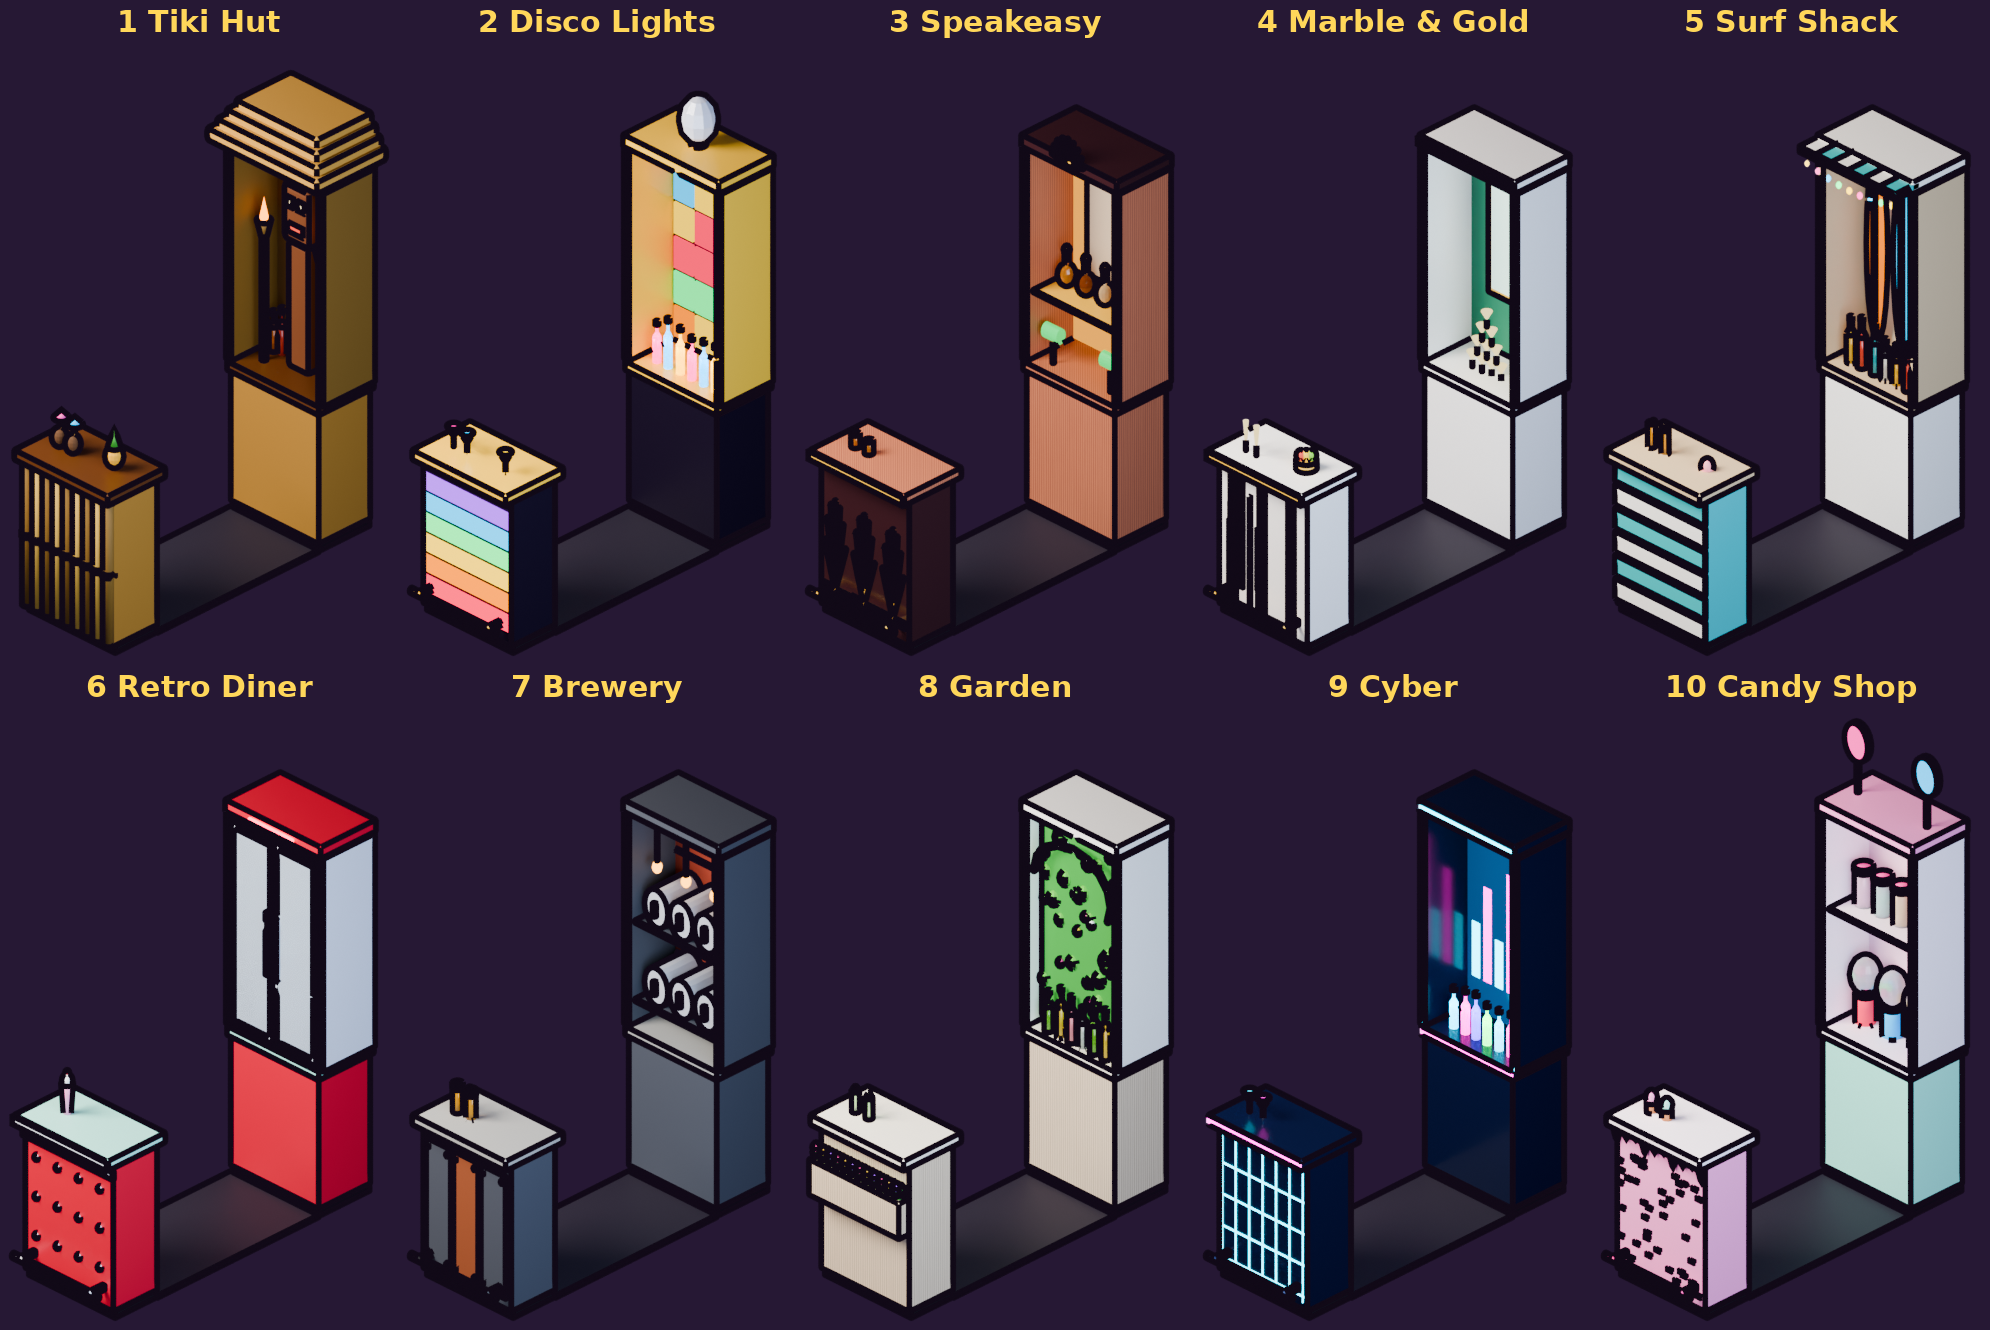
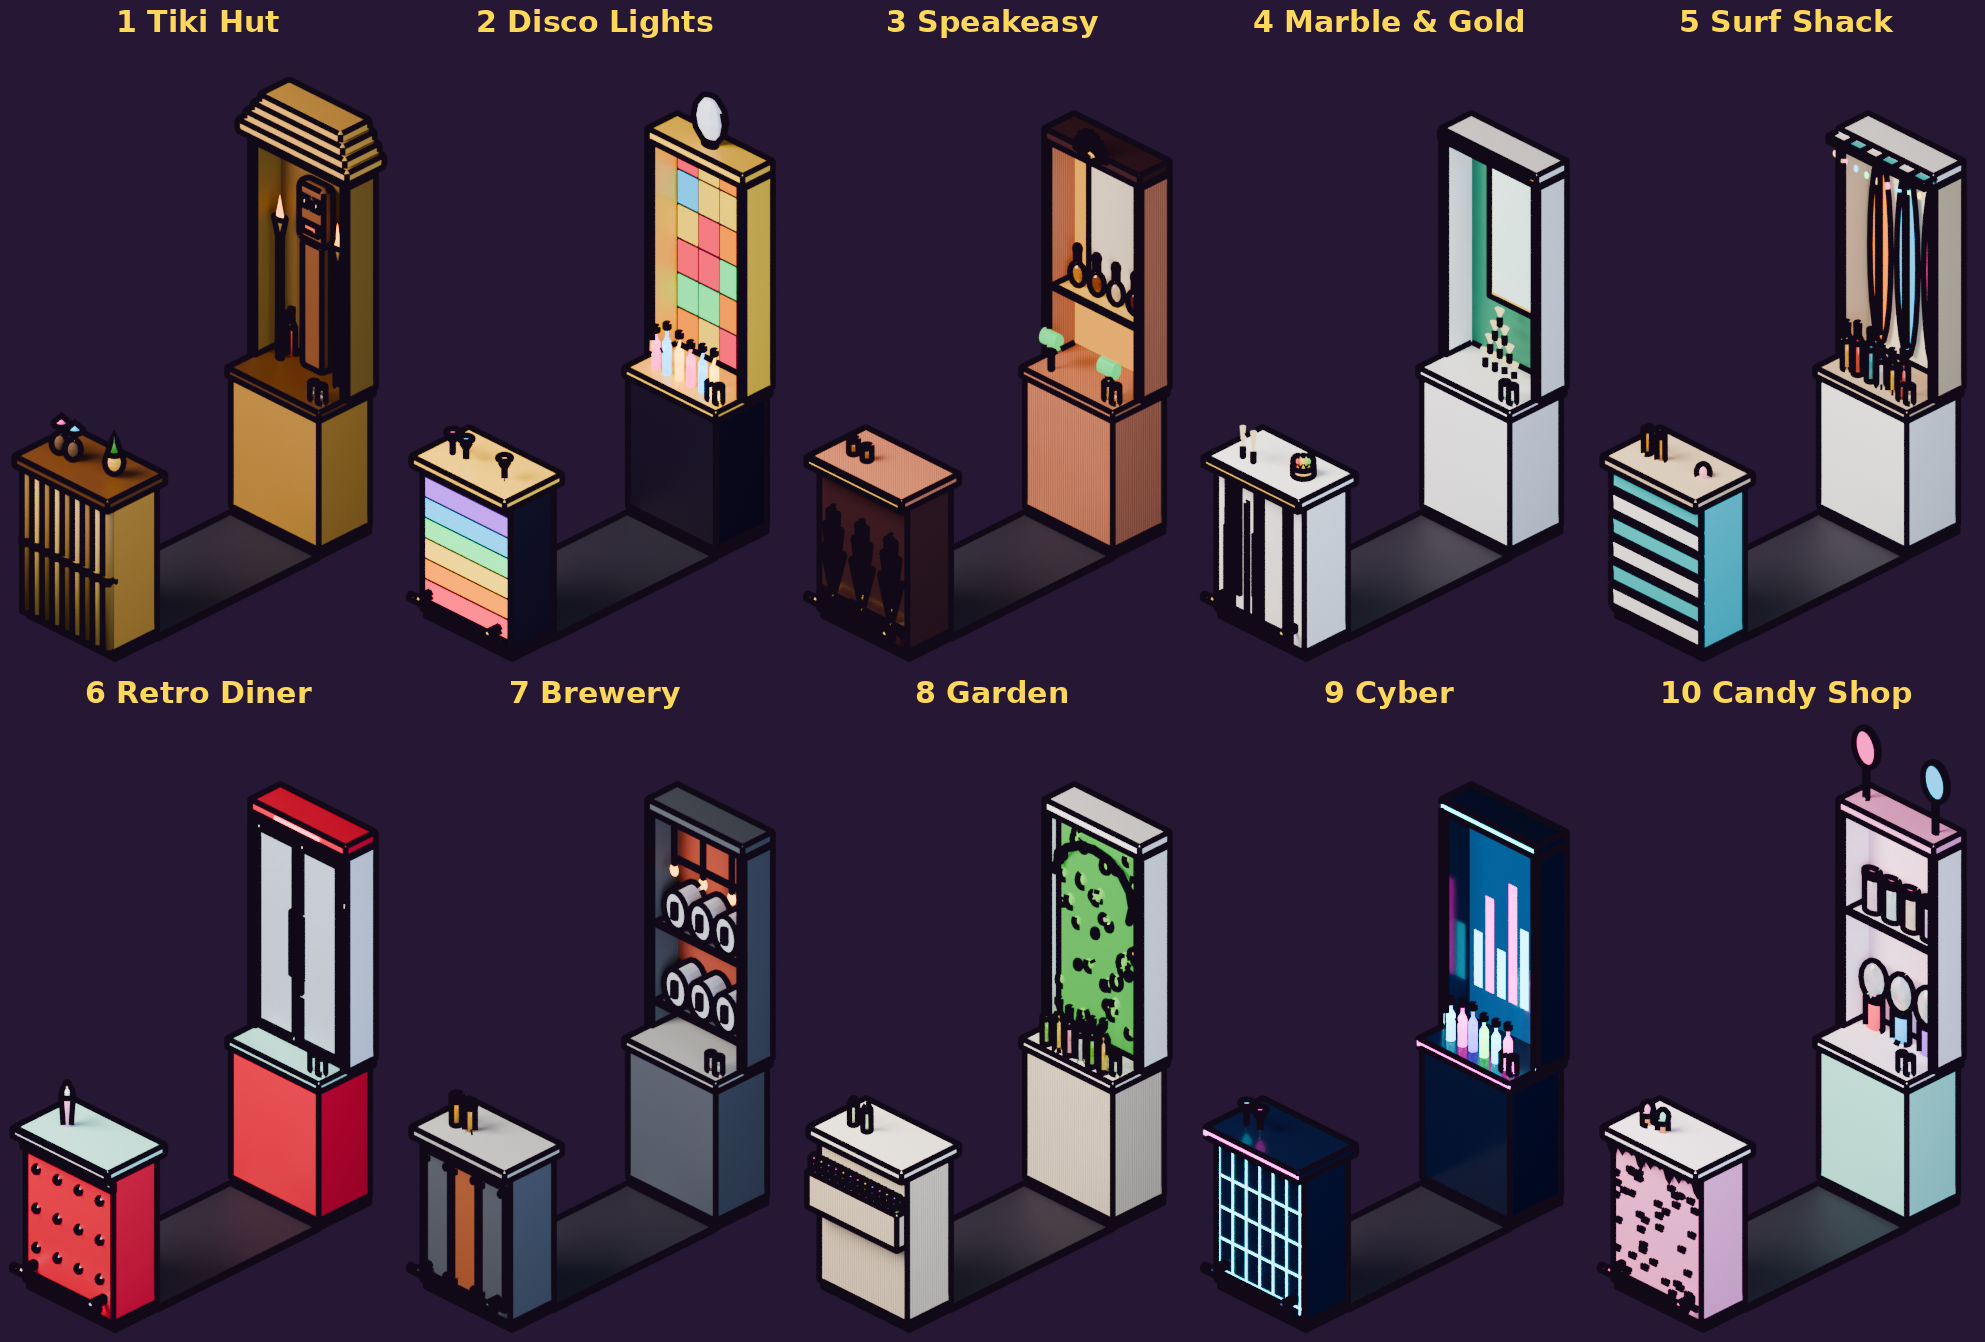
Bar concepts: back pieces against the wall, leaving a bar top on the back cabinet
Claude-Session: https://claude.ai/code/session_01TTBpZpQbjevBY597jyGZL7

diff --git a/art/blender/bar_designs.py b/art/blender/bar_designs.py
@@ -59,9 +59,30 @@ def shell(counter_mat, top_mat, back_mat, top_edge=None, floor_mat=None):
     box('AisleFloor', -0.46, 0.46, -0.82, 0.86, 0, 0.015, floor_mat or plain('#2a2430', rough=0.6), bevel=0.003)
 
 
-# The back piece sits flush on the cabinet: the same front (y 0.86), the
-# same sides (x +-0.48) and the same back (y 1.4), one piece of furniture.
+# The back piece is designed on the whole cabinet top (front y 0.86, sides
+# x +-0.48, back y 1.4), then push_back() squeezes it against the wall so
+# the front of the cabinet top stays free as a little bar top.
 HY0, HY1, HZ0, HZ1 = 0.86, 1.4, 0.94, 2.3
+WALL_FRONT = 1.1                  # front of the back piece after push_back()
+LEDGE = ('BackBottle', 'Lamp', 'Ledge')   # things standing on the bar top
+
+
+def push_back():
+    """Squeeze everything above the cabinet top (but the bar-top things)
+    toward the wall, the back staying at y 1.42."""
+    back = HY1 + 0.02
+    k = (back - WALL_FRONT) / (back - (HY0 - 0.02))
+    for o in bb.ROOT.children_recursive:
+        if o.type != 'MESH' or o.name.startswith(LEDGE):
+            continue
+        mw = o.matrix_world
+        pts = [mw @ v.co for v in o.data.vertices]
+        if min(p.z for p in pts) < HZ0 - 0.005 or max(p.y for p in pts) < HY0 - 0.25:
+            continue
+        inv = mw.inverted()
+        for v, p in zip(o.data.vertices, pts):
+            p.y = back - (back - p.y) * k
+            v.co = inv @ p
 
 
 def hutch(frame, inner, crown=None, depth=0.06):
@@ -71,6 +92,13 @@ def hutch(frame, inner, crown=None, depth=0.06):
         box(f'HutchSide{x}', x - 0.03, x + 0.03, HY0, HY1, HZ0, HZ1, frame, bevel=0.006)
     box('HutchBack', -0.46, 0.46, HY1 - depth, HY1, HZ0, HZ1, inner, bevel=0.004)
     box('HutchCrown', -0.5, 0.5, HY0 - 0.02, HY1 + 0.02, HZ1, HZ1 + 0.08, crown or frame, bevel=0.01)
+
+
+def ledge_glasses():
+    """A few upturned glasses at the end of the bar top."""
+    g = clear_glass('LedgeGlass')
+    for i, x in enumerate((0.3, 0.38)):
+        cylinder(f'LedgeGlass{i}', x, 0.97, 0.94, 1.04, 0.03, g, verts=14)
 
 
 def shelves(mat, bottles, zs=(1.36, 1.76), seed=0, edge=None, y=(0.92, 1.34)):
@@ -198,6 +226,7 @@ def build_speakeasy():
     for x in (-0.3, 0.3):         # green banker lamps
         cylinder(f'LampStem{x}', x, 0.98, 0.94, 1.1, 0.008, gold, verts=8)
         bpy.ops.mesh.primitive_cylinder_add(vertices=16, radius=0.05, depth=0.16, location=(x, 0.98, 1.13), rotation=(0, math.radians(90), 0))
+        bpy.context.active_object.name = 'LampShade'
         bb._finish(bpy.context.active_object, principled('BankerGreen', srgb('#1f8a4a'), rough=0.2, emission=srgb('#3aff7a'), emission_strength=0.8), 0)
     for x in (-0.28, -0.14):
         cylinder(f'Rocks{x}', x, -1.1, 1.05, 1.13, 0.035, plain('#c08030', rough=0.05, transmission=0.6), verts=16)
@@ -472,6 +501,9 @@ def build(name):
     scene.collection.objects.link(root)
     bb.ROOT = root
     DESIGNS[name][1]()
+    bpy.context.view_layer.update()
+    push_back()
+    ledge_glasses()
     iso_rig.make_bar_piece(root)
     return scene, cam, root
 
